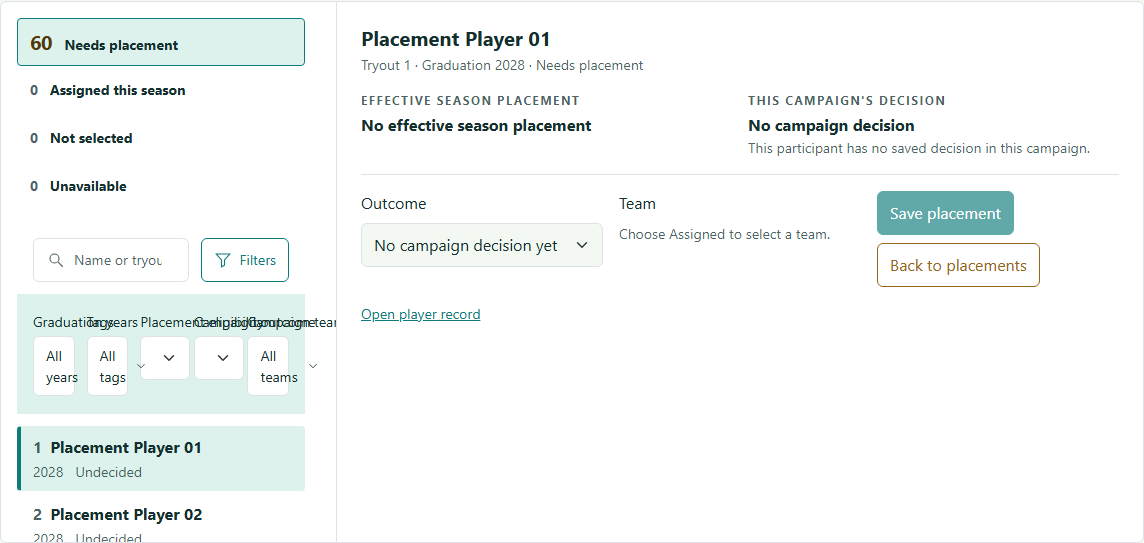
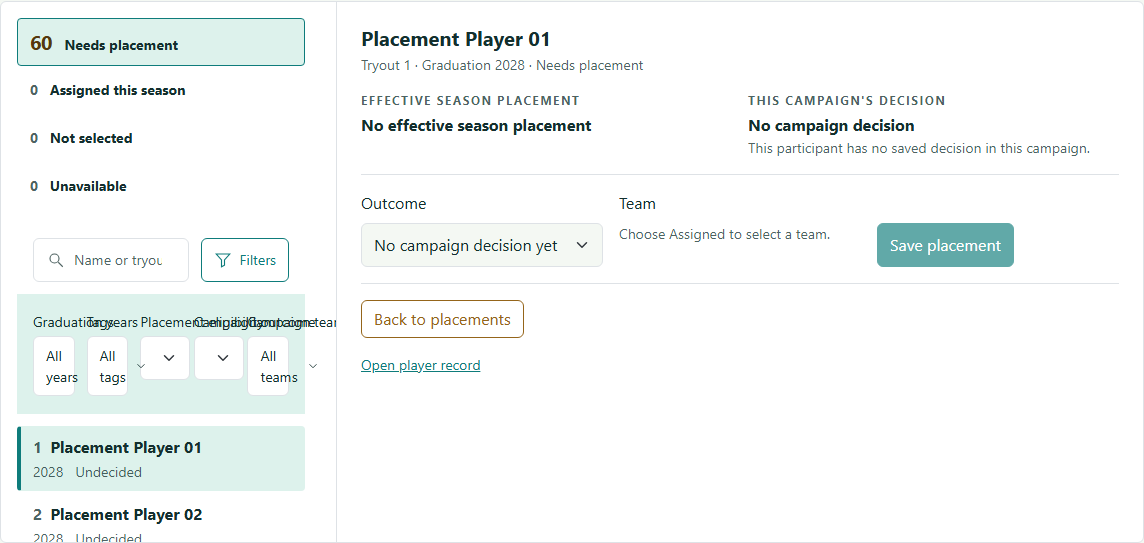
Address Copilot review findings on the Place surface (#255)
Eight findings, all valid and all fixed.

Correctness:
- Switching participants left the previous participant's compatible teams
  in the list while the new request was pending, and the submit did not
  block on the loading flag, so a stale team filtered for a different
  graduation year could be chosen. The list is now cleared when each owned
  request starts.
- A pending search debounce was cancelled only by another keystroke, so a
  draft could fire after Back/Forward or a filter change and overwrite newer
  canonical state. It is now cancelled and the draft reset whenever the
  applied state changes.
- A read that landed past the last real page published a snapshot that
  rendered an empty queue, hid the pager, and claimed the campaign had no
  participants. It now corrects the page and keeps the loading posture,
  with a new test covering it.
- The persisted snapshot marked the URL selection as already applied, so
  the parameter pass skipped reconciliation and a restored selection had no
  compatible team choices. The applied participant is left unset.

Usability and context:
- "Back to placements" rendered only inside the editable decision block, so
  on narrow viewports - where the queue is hidden while a sheet is open - a
  read-only member or a Closed campaign had no way back. It now renders for
  every selected participant.
- The player-detail return URL dropped the Roster and evaluation context.
  The workspace now composes it through a supplied delegate.
[…]

Changed region(s): [[0.7649, 0.3536, 0.9178, 0.5304], [0.3059, 0.5599, 0.4589, 0.6188], [0.3059, 0.6483, 0.4283, 0.7072]]

diff --git a/Nova.UI/Features/Campaigns/Components/CampaignPlacePanel.razor.css b/Nova.UI/Features/Campaigns/Components/CampaignPlacePanel.razor.css
@@ -285,6 +285,17 @@ semantic `--bs-*` tokens; no raw hex belongs in this file.
     align-items: flex-end;
 }
 
+/* Present for every selected participant, not only editable ones: on narrow viewports the queue is
+   hidden while a sheet is open, so this is the only way back. */
+.place-sheet-actions {
+    display: flex;
+    flex-wrap: wrap;
+    gap: 0.5rem;
+    margin-top: 1rem;
+    padding-top: 1rem;
+    border-top: 1px solid var(--bs-border-color);
+}
+
 /* Working controls keep the design system's 2.75rem minimum at every width, not only on phones. */
 .place-decision .btn,
 .place-decision .form-select {

diff --git a/Nova.UI/Features/Campaigns/Components/CampaignPlacePanel.razor.cs b/Nova.UI/Features/Campaigns/Components/CampaignPlacePanel.razor.cs
@@ -136,6 +136,13 @@ public partial class CampaignPlacePanel(
     public EventCallback<CampaignWorkspacePlacementState> OnStateChanged { get; set; }
 
     /// <summary>
+    /// Gets or sets the workspace-composed Place return URL for a selected participant, so a player-detail
+    /// round trip preserves the Roster and evaluation context the panel does not own.
+    /// </summary>
+    [Parameter]
+    public Func<long, string>? ComposePlaceReturnUrl { get; set; }
+
+    /// <summary>
     /// Gets or sets the callback invoked when the selected participant changes.
     /// </summary>
     [Parameter]
@@ -284,6 +291,16 @@ public partial class CampaignPlacePanel(
     /// <inheritdoc />
     protected override async Task OnParametersSetAsync()
     {
+        // A pending search debounce is owned by the URL. If the canonical state changes for any other
+        // reason - Back/Forward, a section or filter change, a lifecycle switch - the draft must not fire
+        // afterwards and overwrite the newer state with a stale search.
+        if (!Equals(_appliedState, State))
+        {
+            _searchDebounce?.Cancel();
+            _searchDebounce = null;
+            _searchDraft = _appliedState.Search ?? string.Empty;
+        }
+
         if (_saving)
         {
             // A discovery change that arrives mid-save is deferred rather than dropped, so browser
@@ -387,7 +404,10 @@ public partial class CampaignPlacePanel(
     private void RestorePersistedQueue(CampaignPlacePersistedSnapshot persisted)
     {
         _appliedState = State;
-        _appliedParticipantId = SelectedParticipantId;
+
+        // The applied participant is deliberately left unset. The snapshot carries rows but not compatible
+        // team choices, and an off-page selection is not in those rows at all, so marking the selection as
+        // already applied would make the parameter pass skip the reconciliation that rebuilds it.
         _appliedStatus = CampaignStatus;
         _queue = new CampaignPlaceQueueData(persisted.Rows, persisted.Page, persisted.PageSize, persisted.TotalCount, persisted.Sections);
         _queueStale = persisted.Stale;
@@ -595,8 +615,12 @@ public partial class CampaignPlacePanel(
     /// <returns>The player-detail URL with an encoded return URL.</returns>
     private string BuildPlayerLink(CampaignPlaceQueueRow row)
     {
-        var returnUrl = CampaignWorkspaceUrlState.BuildPlaceWorkspaceUrl(
-            CampaignId, _appliedState, placementParticipantId: row.PlayerCampaignAssignmentId, returnToEvaluation: EvaluationReturnPath is not null);
+        // The workspace owns the surrounding URL context, so it composes the return URL when it can; the
+        // local fallback still carries the Place state and selection for a standalone render.
+        var returnUrl = ComposePlaceReturnUrl is { } compose
+            ? compose(row.PlayerCampaignAssignmentId)
+            : CampaignWorkspaceUrlState.BuildPlaceWorkspaceUrl(
+                CampaignId, _appliedState, placementParticipantId: row.PlayerCampaignAssignmentId, returnToEvaluation: EvaluationReturnPath is not null);
         return $"/players/{row.PlayerId}?returnUrl={Uri.EscapeDataString(returnUrl)}";
     }
 }

diff --git a/Nova.UI/Features/Campaigns/Services/CampaignWorkspaceUrlState.cs b/Nova.UI/Features/Campaigns/Services/CampaignWorkspaceUrlState.cs
@@ -566,11 +566,30 @@ public static class CampaignWorkspaceUrlState
     /// <param name="campaignId">The campaign identifier from the route.</param>
     /// <returns>The relative undecided-placements workspace URL.</returns>
     public static string BuildReviewUnresolvedUrl(long campaignId)
-        => BuildPlaceWorkspaceUrl(campaignId, new CampaignWorkspacePlacementState
-        {
-            Eligibility = AllPlacementSections,
-            Outcome = "undecided"
-        });
+        => BuildReviewUnresolvedUrl(campaignId, roster: null, participantId: null);
+
+    /// <summary>
+    /// Builds the Place workspace URL filtered to participants without a campaign-local decision, carrying the
+    /// supplied Roster context so a drill-down preserves the filter and selection state it was opened from.
+    /// </summary>
+    /// <remarks>
+    /// Same target as the context-free overload: the campaign-local <c>undecided</c> outcome across every
+    /// section, which is deliberately not the Needs-placement queue.
+    /// </remarks>
+    /// <param name="campaignId">The campaign identifier from the route.</param>
+    /// <param name="roster">The Roster context carried into Place, or <see langword="null"/>.</param>
+    /// <param name="participantId">The Roster drawer participant carried into Place, or <see langword="null"/>.</param>
+    /// <returns>The relative undecided-placements workspace URL.</returns>
+    public static string BuildReviewUnresolvedUrl(long campaignId, CampaignWorkspaceRosterState? roster, long? participantId)
+        => BuildPlaceWorkspaceUrl(
+            campaignId,
+            new CampaignWorkspacePlacementState
+            {
+                Eligibility = AllPlacementSections,
+                Outcome = "undecided"
+            },
+            roster,
+            participantId);
 
     /// <summary>
     /// Determines whether any roster filter (search, years, tags, outcome, or team) is active.

diff --git a/Nova.Unit.Tests/Campaigns/CampaignPlacePanelTests.Callbacks.cs b/Nova.Unit.Tests/Campaigns/CampaignPlacePanelTests.Callbacks.cs
@@ -46,7 +46,9 @@ public sealed partial class CampaignPlacePanelTests
     [Fact]
     public void ClearingFiltersRaisesTheDefaultState()
     {
-        RegisterServices();
+        // Page 3 is a real page for this fixture, so clearing is what the assertion observes rather than the
+        // out-of-range clamp.
+        RegisterServices(rows: [CreateRow(301)], totalCount: 150);
 
         CampaignWorkspacePlacementState? raised = null;
         var cut = RenderPanel(
@@ -58,6 +60,22 @@ public sealed partial class CampaignPlacePanelTests
 
         raised.ShouldNotBeNull();
         raised.ShouldBe(new CampaignWorkspacePlacementState());
+    }
+
+    [Fact]
+    public async Task AReadPastTheLastPageCorrectsThePageRatherThanClaimingAnEmptyCampaignAsync()
+    {
+        // One row on a 50-row page: page 9 does not exist, and publishing that snapshot would render an
+        // empty queue with no pager and claim the campaign has no participants.
+        RegisterServices(rows: [CreateRow(301)], totalCount: 1);
+
+        CampaignWorkspacePlacementState? raised = null;
+        var cut = RenderPanel(state: new CampaignWorkspacePlacementState { Page = 9 }, onStateChanged: state => raised = state);
+
+        await cut.WaitForAssertionAsync(() => raised.ShouldNotBeNull());
+        raised.ShouldNotBeNull();
+        raised.Page.ShouldBe(1);
+        cut.Markup.ShouldNotContain("No participants in this campaign yet");
     }
 
     [Fact]

diff --git a/Nova.UI/Features/Campaigns/Pages/CampaignWorkspace.Place.cs b/Nova.UI/Features/Campaigns/Pages/CampaignWorkspace.Place.cs
@@ -146,9 +146,19 @@ public partial class CampaignWorkspace
     private Task OnReviewUnresolvedAsync(bool unresolvedOnly)
     {
         var url = unresolvedOnly
-            ? CampaignWorkspaceUrlState.BuildReviewUnresolvedUrl(CampaignId)
+            ? CampaignWorkspaceUrlState.BuildReviewUnresolvedUrl(CampaignId, _filters, _selectedParticipantId)
             : CampaignWorkspaceUrlState.BuildPlaceWorkspaceUrl(CampaignId, new(), _filters, _selectedParticipantId);
         navigationManager.NavigateTo(url);
         return Task.CompletedTask;
     }
+
+    /// <summary>
+    /// Composes the Place return URL a player-detail round trip should come back to, including the Roster
+    /// context and evaluation lookup the panel does not own.
+    /// </summary>
+    /// <param name="placementParticipantId">The participant Place has selected.</param>
+    /// <returns>The relative Place workspace URL with Roster and evaluation context applied.</returns>
+    private string BuildPlaceReturnUrl(long placementParticipantId)
+        => CampaignWorkspaceUrlState.WithEvaluationContext(
+            BuildPlaceUrl(_placementState, placementParticipantId), EvaluationState);
 }

diff --git a/Nova.Browser.Tests/CampaignPlaceBrowserTests.cs b/Nova.Browser.Tests/CampaignPlaceBrowserTests.cs
@@ -337,9 +337,18 @@ public sealed class CampaignPlaceBrowserTests(BrowserSuiteFixture fixture)
         var box = await board.BoundingBoxAsync();
         await board.ScreenshotAsync(new() { Path = Path.Combine(directory, name + "-board.png") });
 
+        var boardBounds = box is null
+            ? null
+            : new Dictionary<string, double>(StringComparer.Ordinal)
+            {
+                ["x"] = box.X,
+                ["y"] = box.Y,
+                ["width"] = box.Width,
+                ["height"] = box.Height
+            };
         var geometry = await page.EvaluateAsync<string>(
             "args => JSON.stringify({cssWidth:innerWidth,cssHeight:innerHeight,devicePixelRatio,documentHeight:document.documentElement.scrollHeight,campaignId:args.campaignId,board:args.board})",
-            new { campaignId, board = box is null ? null : new { x = box.X, y = box.Y, width = box.Width, height = box.Height } });
+            new { campaignId, board = boardBounds });
         await File.WriteAllTextAsync(Path.Combine(directory, name + ".json"), geometry, TestContext.Current.CancellationToken);
     }
 }

diff --git a/Nova.UI/Features/Campaigns/Components/CampaignPlacePanel.Queue.cs b/Nova.UI/Features/Campaigns/Components/CampaignPlacePanel.Queue.cs
@@ -95,6 +95,20 @@ public partial class CampaignPlacePanel
             return;
         }
 
+        // A read that lands past the end of the result set would render an empty queue, hide the pager, and
+        // claim the campaign has no participants. Clamp to the last real page and correct the URL instead of
+        // publishing a snapshot that misrepresents the campaign. The loading posture is kept until the
+        // corrected state arrives.
+        if (loaded is not null)
+        {
+            var lastPage = Math.Max(1, (int)Math.Ceiling(loaded.TotalCount / (double)Math.Max(1, loaded.PageSize)));
+            if (state.Page > lastPage)
+            {
+                await OnStateChanged.InvokeAsync(state with { Page = lastPage });
+                return;
+            }
+        }
+
         _queueLoading = false;
         if (loaded is null)
         {

diff --git a/Nova.UI/Features/Campaigns/Components/CampaignPlacePanel.Selection.cs b/Nova.UI/Features/Campaigns/Components/CampaignPlacePanel.Selection.cs
@@ -151,6 +151,11 @@ public partial class CampaignPlacePanel
     private async Task LoadCompatibleTeamsAsync(int graduationYear)
     {
         var request = ++_teamChoicesRequestSequence;
+
+        // Clear the previous participant's choices before awaiting the new ones. The select renders
+        // whenever the list is non-empty and the submit does not block on the loading flag, so a stale
+        // list would offer teams filtered for a different graduation year.
+        _compatibleTeams = [];
         _teamChoicesLoading = true;
         _teamChoicesError = null;
 
